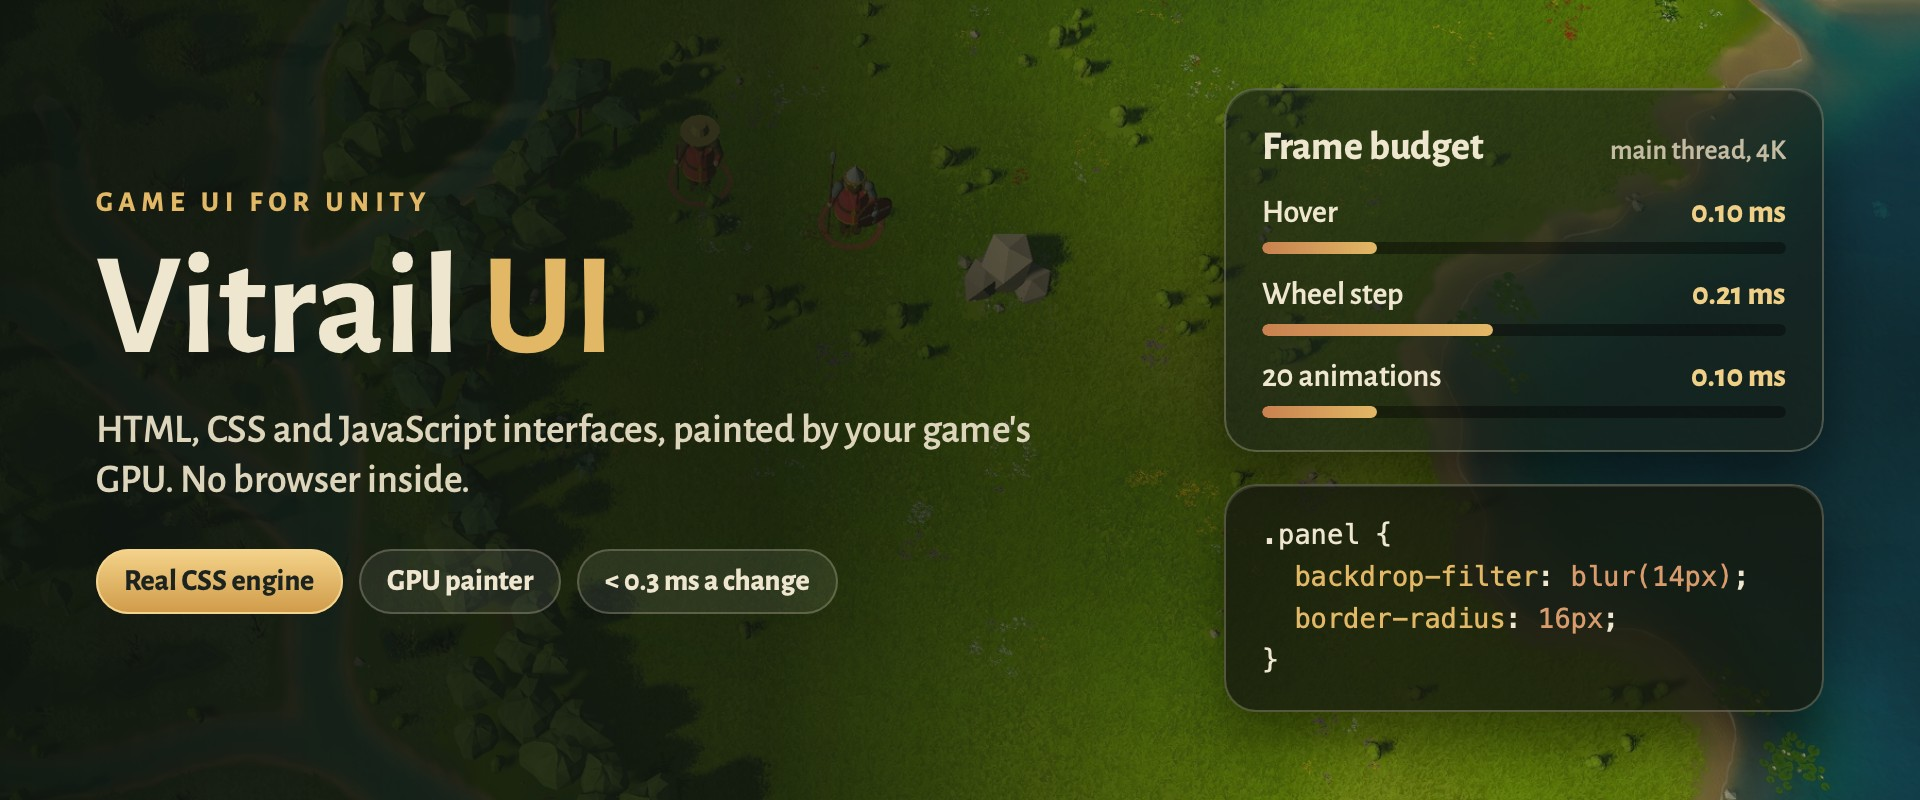
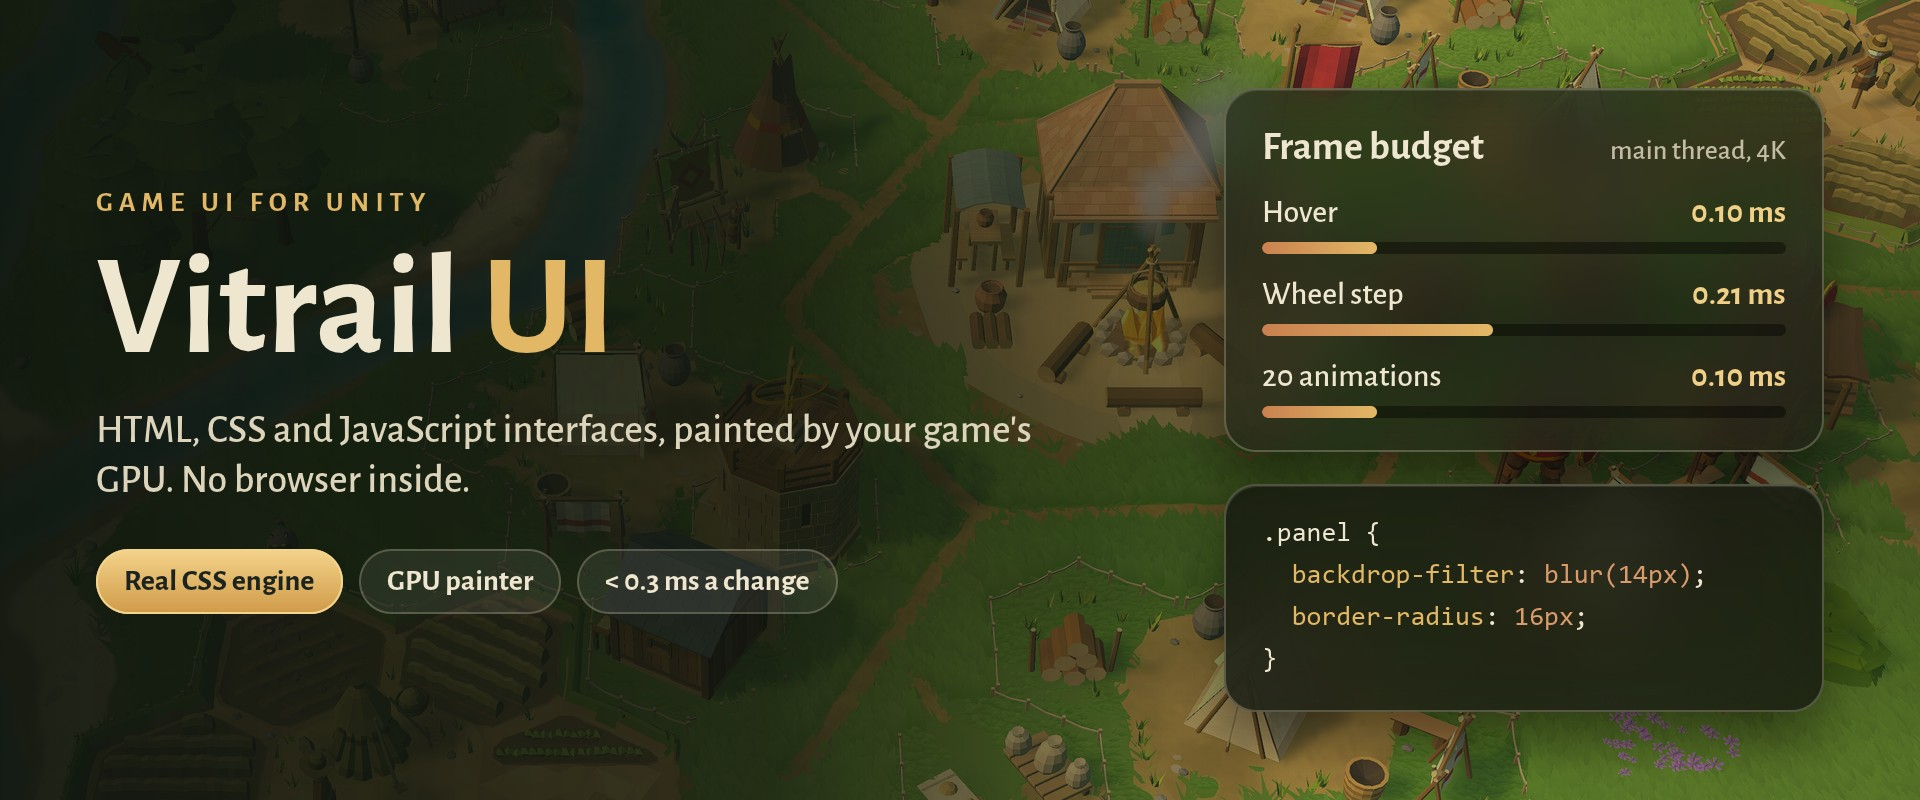
README pictures painted over a real Unity scene, so glass blurs it as in Chrome; a fresh game scene; the shot tool

diff --git a/media/src/showcase.html b/media/src/showcase.html
@@ -2,119 +2,119 @@
 <html>
 <head>
 <meta charset="utf-8">
+<!-- The README's showcase. The game scene is drawn under the page (the page itself is transparent), so the glass
+     blurs the real scene, as it does in a game. -->
 <style>
 @font-face { font-family: "Alegreya Sans"; src: url(AlegreyaSans-Medium.ttf); font-weight: 500; }
 @font-face { font-family: "Alegreya Sans"; src: url(AlegreyaSans-Bold.ttf); font-weight: 700; }
 :root {
-  --glass: rgba(24, 34, 28, .62);
-  --glass-strong: rgba(20, 28, 23, .78);
-  --edge: rgba(236, 226, 196, .22);
-  --text: #efe8d4;
-  --muted: #b8b19a;
-  --gold: #e2b866;
+  --glass: rgba(22, 30, 25, .62);
+  --edge: rgba(236, 226, 196, .2);
+  --text: #f1ead6;
+  --muted: #bdb6a0;
+  --gold: #e8c06e;
   --copper: #c9814f;
-  --good: #9fd27a;
+  --good: #a6d98a;
+  --bad: #ec9070;
 }
 * { box-sizing: border-box; margin: 0; }
-html, body { width: 1280px; height: 720px; overflow: hidden; }
+html, body { width: 1280px; height: 720px; overflow: hidden; background: transparent; }
 body { font: 500 15px/1.25 "Alegreya Sans", sans-serif; color: var(--text); position: relative; }
-.world { position: absolute; left: -190px; top: -50px; width: 1480px; height: 833px; }
 
 .glass {
   background: var(--glass);
-  backdrop-filter: blur(14px) saturate(1.2);
+  backdrop-filter: blur(14px) saturate(1.25);
   border: 1px solid var(--edge);
-  box-shadow: 0 10px 30px rgba(0, 0, 0, .35), inset 0 1px 0 rgba(255, 255, 255, .08);
+  box-shadow: 0 12px 32px rgba(0, 0, 0, .32), inset 0 1px 0 rgba(255, 255, 255, .09);
 }
 
 /* Top bar */
-.bar { position: absolute; left: 16px; right: 16px; top: 14px; height: 48px; border-radius: 14px; background: rgba(18,24,16,.74);
-  display: flex; align-items: center; padding: 0 10px 0 16px; gap: 20px; }
-.res { display: flex; align-items: center; gap: 7px; font-weight: 700; font-size: 17px; }
+.bar { position: absolute; left: 16px; right: 16px; top: 14px; height: 50px; border-radius: 16px;
+  display: flex; align-items: center; padding: 0 10px 0 18px; gap: 22px; }
+.res { display: flex; align-items: center; gap: 7px; font-weight: 700; font-size: 17px; text-shadow: 0 1px 2px rgba(0, 0, 0, .5); }
 .res img { width: 26px; height: 26px; }
-.res small { font-weight: 700; font-size: 15px; color: var(--good); text-shadow: 0 1px 2px rgba(0,0,0,.65); }
-.res small.bad { color: #e48a6c; }
+.res small { font-weight: 700; font-size: 14px; color: var(--good); }
+.res small.bad { color: var(--bad); }
 .sep { width: 1px; height: 24px; background: var(--edge); }
 .spacer { flex: 1; }
-.turn { font-weight: 700; color: var(--gold); letter-spacing: .04em; font-size: 16px; }
 .round { width: 34px; height: 34px; border-radius: 50%; display: flex; align-items: center; justify-content: center;
-  background: linear-gradient(180deg, rgba(255,255,255,.12), rgba(255,255,255,.02)); border: 1px solid var(--edge); }
+  background: linear-gradient(180deg, rgba(255, 255, 255, .14), rgba(255, 255, 255, .03)); border: 1px solid var(--edge); }
 .round img { width: 18px; height: 18px; }
 
+/* Toast */
+.toast { position: absolute; left: 50%; top: 80px; transform: translateX(-50%); padding: 8px 18px 8px 9px;
+  border-radius: 999px; display: flex; align-items: center; gap: 10px; font-size: 15px; white-space: nowrap; }
+.toast .dot { width: 28px; height: 28px; border-radius: 50%; display: flex; align-items: center; justify-content: center;
+  background: linear-gradient(180deg, #b4e297, #5d9a4a); box-shadow: inset 0 1px 0 rgba(255, 255, 255, .4); }
+.toast .dot img { width: 18px; height: 18px; }
+.toast b { color: var(--gold); }
+
 /* Build card */
-.card { position: absolute; right: 16px; top: 78px; width: 330px; border-radius: 16px; padding: 16px; }
+.card { position: absolute; left: 16px; top: 78px; width: 320px; border-radius: 18px; padding: 16px; }
 .card h2 { font-size: 22px; font-weight: 700; display: flex; justify-content: space-between; align-items: baseline; }
-.card h2 span { font-size: 14px; color: #d6cdb3; font-weight: 500; }
-.tabs { display: flex; gap: 6px; margin: 12px 0 12px; }
-.tab { padding: 5px 12px; border-radius: 999px; font-size: 13px; color: var(--muted); border: 1px solid transparent; }
-.tab.on { color: #1d241f; background: linear-gradient(180deg, #f0cf86, #d6a24f); font-weight: 700; }
-.item { display: grid; grid-template-columns: 48px 1fr auto; gap: 12px; align-items: center; padding: 10px;
-  border-radius: 12px; margin-bottom: 8px; background: rgba(255,255,255,.04); border: 1px solid rgba(255,255,255,.05); }
-.item.hover { background: linear-gradient(90deg, rgba(226,184,102,.20), rgba(226,184,102,.05));
-  border-color: rgba(226,184,102,.75); box-shadow: 0 0 0 3px rgba(226,184,102,.15); }
-.thumb { width: 48px; height: 48px; border-radius: 10px; display: flex; align-items: center; justify-content: center;
-  background: radial-gradient(circle at 30% 25%, #4f6b52, #233226); border: 1px solid var(--edge); }
-.thumb img { width: 28px; height: 28px; }
+.card h2 span { font-size: 14px; color: var(--muted); font-weight: 500; }
+.tabs { display: flex; gap: 4px; margin: 12px 0; padding: 3px; border-radius: 999px; background: rgba(0, 0, 0, .22); }
+.tab { flex: 1; text-align: center; padding: 5px 0; border-radius: 999px; font-size: 13px; color: var(--muted); }
+.tab.on { color: #1f2620; background: linear-gradient(180deg, #f3d48e, #d6a24f); font-weight: 700; box-shadow: 0 2px 8px rgba(214, 162, 79, .35); }
+.item { display: grid; grid-template-columns: 48px 1fr auto; gap: 12px; align-items: center; padding: 8px 10px 8px 8px;
+  border-radius: 13px; margin-bottom: 8px; background: rgba(255, 255, 255, .045); border: 1px solid rgba(255, 255, 255, .06); }
+.item.hover { background: linear-gradient(90deg, rgba(232, 192, 110, .22), rgba(232, 192, 110, .05));
+  border-color: rgba(232, 192, 110, .8); box-shadow: 0 0 0 3px rgba(232, 192, 110, .14); }
+.thumb { width: 48px; height: 48px; border-radius: 11px; display: flex; align-items: center; justify-content: center;
+  background: radial-gradient(circle at 30% 25%, #5a7a5c, #233226); border: 1px solid var(--edge); }
+.thumb img { width: 40px; height: 40px; }
 .item b { display: block; font-size: 16px; }
 .item i { font-style: normal; font-size: 13px; color: var(--muted); }
 .cost { display: flex; gap: 8px; font-weight: 700; font-size: 14px; }
 .cost span { display: flex; align-items: center; gap: 3px; }
 .cost img { width: 18px; height: 18px; }
-.progress { margin-top: 6px; height: 8px; border-radius: 4px; background: rgba(0,0,0,.35); overflow: hidden; }
+.foot { display: flex; justify-content: space-between; margin-top: 6px; font-size: 13px; color: var(--muted); }
+.progress { margin-top: 6px; height: 8px; border-radius: 4px; background: rgba(0, 0, 0, .35); overflow: hidden; }
 .progress div { width: 64%; height: 100%; border-radius: 4px; background: linear-gradient(90deg, var(--copper), var(--gold)); }
-.foot { display: flex; justify-content: space-between; margin-top: 4px; font-size: 13px; color: var(--muted); }
 
 /* Tooltip */
-.tip { position: absolute; right: 362px; top: 252px; width: 250px; border-radius: 12px; padding: 12px 14px; }
-.tip::after { content: ""; position: absolute; right: -7px; top: 26px; width: 12px; height: 12px; transform: rotate(45deg);
-  background: rgba(30,40,32,.9); border-top: 1px solid var(--edge); border-right: 1px solid var(--edge); }
+.tip { position: absolute; left: 352px; top: 222px; width: 250px; border-radius: 13px; padding: 12px 14px; }
+.tip::before { content: ""; position: absolute; left: -7px; top: 26px; width: 12px; height: 12px; transform: rotate(45deg);
+  background: rgba(40, 50, 42, .95); border-bottom: 1px solid var(--edge); border-left: 1px solid var(--edge); }
 .tip b { color: var(--gold); font-size: 17px; }
 .tip p { font-size: 14px; color: var(--muted); margin-top: 4px; }
-.tip .row { display: flex; justify-content: space-between; margin-top: 8px; font-size: 14px; }
-.tip .row em { font-style: normal; color: var(--good); font-weight: 700; }
+.tip .row { display: flex; justify-content: space-between; align-items: center; margin-top: 8px; font-size: 14px; }
+.tip .row em { font-style: normal; color: var(--good); font-weight: 700; display: flex; align-items: center; gap: 4px; }
+.tip .row em img { width: 17px; height: 17px; }
 
 /* Unit panel */
-.unit { position: absolute; left: 16px; bottom: 16px; width: 380px; border-radius: 16px; padding: 14px 16px;
+.unit { position: absolute; left: 16px; bottom: 16px; width: 360px; border-radius: 18px; padding: 14px 16px;
   display: grid; grid-template-columns: 64px 1fr; gap: 14px; }
 .portrait { width: 64px; height: 64px; border-radius: 50%; display: flex; align-items: center; justify-content: center;
-  background: radial-gradient(circle at 35% 30%, #8a4b34, #3a1f17); border: 2px solid var(--gold);
-  box-shadow: 0 0 18px rgba(226,184,102,.35); }
-.portrait img { width: 36px; height: 36px; }
+  background: radial-gradient(circle at 35% 30%, #9a5139, #3a1f17); border: 2px solid var(--gold);
+  box-shadow: 0 0 18px rgba(232, 192, 110, .35); }
+.portrait img { width: 48px; height: 48px; }
 .unit h3 { font-size: 20px; font-weight: 700; }
 .unit .sub { font-size: 13px; color: var(--muted); }
 .hp { display: grid; grid-template-columns: repeat(10, 1fr); gap: 3px; margin-top: 8px; }
 .hp div { height: 7px; border-radius: 2px; background: var(--good); }
-.hp div.off { background: rgba(255,255,255,.15); }
+.hp div.off { background: rgba(255, 255, 255, .15); }
 .actions { grid-column: 1 / 3; display: flex; gap: 8px; }
-.btn { flex: 1; text-align: center; padding: 8px 0; border-radius: 10px; font-weight: 700; font-size: 14px;
-  border: 1px solid var(--edge); background: linear-gradient(180deg, rgba(255,255,255,.10), rgba(255,255,255,.02)); }
-.btn.main { color: #1d241f; border-color: #f3d48e; background: linear-gradient(180deg, #f2d087, #cf9a48);
-  box-shadow: 0 4px 14px rgba(207,154,72,.35); }
-
-/* Toast */
-.toast { position: absolute; left: 50%; top: 80px; transform: translateX(-50%); padding: 9px 18px 9px 12px;
-  border-radius: 999px; display: flex; align-items: center; gap: 10px; font-size: 15px; }
-.toast .dot { width: 26px; height: 26px; border-radius: 50%; display: flex; align-items: center; justify-content: center;
-  background: linear-gradient(180deg, #a6d98a, #5d9a4a); }
-.toast .dot img { width: 16px; height: 16px; }
-.toast b { color: var(--gold); }
+.btn { flex: 1; display: flex; align-items: center; justify-content: center; gap: 6px; padding: 7px 0; border-radius: 11px; font-weight: 700; font-size: 14px;
+  border: 1px solid var(--edge); background: linear-gradient(180deg, rgba(255, 255, 255, .11), rgba(255, 255, 255, .02)); }
+.btn img { width: 20px; height: 20px; }
+.btn.main { color: #1f2620; border-color: #f3d48e; background: linear-gradient(180deg, #f3d48e, #cf9a48);
+  box-shadow: 0 4px 14px rgba(207, 154, 72, .35); }
 
 /* Turn dial */
-.dial { position: absolute; right: 16px; bottom: 16px; width: 200px; border-radius: 16px; padding: 12px 14px 14px; text-align: center; }
+.dial { position: absolute; right: 16px; bottom: 16px; width: 200px; border-radius: 18px; padding: 12px 14px 14px; text-align: center; }
 .dial h3 { font-size: 24px; font-weight: 700; }
 .dial .sub { font-size: 13px; color: var(--muted); }
 .ring { width: 92px; height: 92px; margin: 8px auto 10px; border-radius: 50%; display: flex; align-items: center;
-  justify-content: center; background: conic-gradient(var(--copper) 0%, var(--gold) 72%, rgba(255,255,255,.12) 72% 100%); }
+  justify-content: center; background: conic-gradient(var(--copper) 0%, var(--gold) 72%, rgba(255, 255, 255, .12) 72% 100%); }
 .ring div { width: 76px; height: 76px; border-radius: 50%; background: #1c2720; display: flex; align-items: center;
   justify-content: center; border: 1px solid var(--edge); }
 .ring img { width: 34px; height: 34px; }
-.end { margin-top: 4px; padding: 8px 0; border-radius: 10px; font-weight: 700; color: #1d241f;
-  background: linear-gradient(180deg, #f2d087, #cf9a48); }
+.end { margin-top: 4px; padding: 8px 0; border-radius: 11px; font-weight: 700; color: #1f2620;
+  background: linear-gradient(180deg, #f3d48e, #cf9a48); box-shadow: 0 4px 14px rgba(207, 154, 72, .3); }
 </style>
 </head>
 <body>
-<img class="world" src="world.jpg">
-
 <div class="bar glass">
   <div class="res"><img src="icons/water.png">30 <small>+4</small></div>
   <div class="res"><img src="icons/food.png">42 <small>+3</small></div>
@@ -136,17 +136,17 @@ body { font: 500 15px/1.25 "Alegreya Sans", sans-serif; color: var(--text); posi
   <h2>Build <span>Riverside</span></h2>
   <div class="tabs"><div class="tab on">Housing</div><div class="tab">Food</div><div class="tab">Crafts</div><div class="tab">Defence</div></div>
   <div class="item">
-    <div class="thumb"><img src="icons/home.svg"></div>
+    <div class="thumb"><img src="icons/tent.png"></div>
     <div><b>Cottage</b><i>+2 people, needs a road</i></div>
     <div class="cost"><span><img src="icons/wood.png">6</span></div>
   </div>
   <div class="item hover">
-    <div class="thumb"><img src="icons/planks.png"></div>
+    <div class="thumb"><img src="icons/sawmill.png"></div>
     <div><b>Sawmill</b><i>Wood into planks</i></div>
     <div class="cost"><span><img src="icons/wood.png">8</span><span><img src="icons/stone.png">4</span></div>
   </div>
   <div class="item">
-    <div class="thumb"><img src="icons/food.png"></div>
+    <div class="thumb"><img src="icons/storehouse.png"></div>
     <div><b>Granary</b><i>Keeps food through winter</i></div>
     <div class="cost"><span><img src="icons/wood.png">10</span></div>
   </div>
@@ -157,18 +157,18 @@ body { font: 500 15px/1.25 "Alegreya Sans", sans-serif; color: var(--text); posi
 <div class="tip glass">
   <b>Sawmill</b>
   <p>Turns 2 wood into 1 plank each turn. Plank buildings last longer.</p>
-  <div class="row"><span>Planks per turn</span><em>+1</em></div>
+  <div class="row"><span>Planks per turn</span><em><img src="icons/planks.png">+1</em></div>
   <div class="row"><span>Upkeep</span><span>1 food</span></div>
 </div>
 
 <div class="unit glass">
-  <div class="portrait"><img src="icons/warrior.svg"></div>
+  <div class="portrait"><img src="icons/warrior.png"></div>
   <div>
-    <h3>Spearmen</h3>
+    <h3>Warriors</h3>
     <div class="sub">Level 2 · 3 of 3 moves</div>
     <div class="hp"><div></div><div></div><div></div><div></div><div></div><div></div><div></div><div></div><div class="off"></div><div class="off"></div></div>
   </div>
-  <div class="actions"><div class="btn main">Fortify</div><div class="btn">Move</div><div class="btn">Disband</div></div>
+  <div class="actions"><div class="btn main"><img src="icons/fortify.png">Fortify</div><div class="btn"><img src="icons/march.png">Move</div><div class="btn"><img src="icons/disband.png">Disband</div></div>
 </div>
 
 <div class="dial glass">

diff --git a/media/src/hero.html b/media/src/hero.html
@@ -2,14 +2,14 @@
 <html>
 <head>
 <meta charset="utf-8">
-<!-- Laid out at 960 css px and painted at scale 2, so GitHub (about 880 px wide) shows it near 1:1. -->
+<!-- Laid out at 960 css px and painted at scale 2, so GitHub (about 880 px wide) shows it near 1:1. The game scene
+     (scene-hero.jpg) is drawn under the page, which is transparent, so the glass blurs the real scene. -->
 <style>
 @font-face { font-family: "Alegreya Sans"; src: url(AlegreyaSans-Medium.ttf); font-weight: 500; }
 @font-face { font-family: "Alegreya Sans"; src: url(AlegreyaSans-Bold.ttf); font-weight: 700; }
 * { box-sizing: border-box; margin: 0; }
 html, body { width: 960px; height: 400px; overflow: hidden; }
-body { font: 500 15px/1.25 "Alegreya Sans", sans-serif; color: #efe6d0; position: relative; background: #141b16; }
-.world { position: absolute; left: -330px; top: -290px; width: 1360px; height: 765px; }
+body { font: 500 15px/1.25 "Alegreya Sans", sans-serif; color: #efe6d0; position: relative; background: transparent; }
 .shade { position: absolute; inset: 0;
   background: linear-gradient(90deg, rgba(14,20,14,.94) 0%, rgba(14,20,14,.82) 40%, rgba(14,20,14,.25) 70%, rgba(14,20,14,.35) 100%); }
 .vignette { position: absolute; inset: 0; background: radial-gradient(ellipse at 82% 50%, rgba(10,14,8,.45), rgba(10,14,8,0) 65%); }
@@ -41,7 +41,6 @@ h1 span { color: #e2b866; }
 </style>
 </head>
 <body>
-<img class="world" src="world.jpg">
 <div class="shade"></div>
 <div class="vignette"></div>
 <div class="left">

diff --git a/media/src/shot/BuildShot.cs b/media/src/shot/BuildShot.cs
@@ -1,0 +1,59 @@
+using UnityEditor;
+using UnityEditor.SceneManagement;
+using UnityEngine;
+using UnityEngine.Rendering;
+using UnityEngine.Rendering.Universal;
+
+public static class BuildShot
+{
+    public static void Build()
+    {
+        PlayerSettings.colorSpace = ColorSpace.Linear;
+        var ps = AssetDatabase.LoadAllAssetsAtPath("ProjectSettings/ProjectSettings.asset")[0];
+        var so = new SerializedObject(ps);
+        so.FindProperty("activeInputHandler").intValue = 2;
+        so.ApplyModifiedProperties();
+        PlayerSettings.fullScreenMode = FullScreenMode.Windowed;
+        PlayerSettings.defaultScreenWidth = 640;
+        PlayerSettings.defaultScreenHeight = 360;
+        PlayerSettings.resizableWindow = true;
+        PlayerSettings.runInBackground = true;
+
+        System.IO.Directory.CreateDirectory("Assets/Settings");
+        var rd = ScriptableObject.CreateInstance<UniversalRendererData>();
+        rd.intermediateTextureMode = IntermediateTextureMode.Always;
+        AssetDatabase.CreateAsset(rd, "Assets/Settings/Renderer.asset");
+        var urp = UniversalRenderPipelineAsset.Create(rd);
+        urp.renderScale = 1f;
+        urp.msaaSampleCount = 1;
+        AssetDatabase.CreateAsset(urp, "Assets/Settings/URP.asset");
+        GraphicsSettings.defaultRenderPipeline = urp;
+        for (var i = 0; i < QualitySettings.names.Length; i++) { QualitySettings.SetQualityLevel(i, false); QualitySettings.renderPipeline = urp; }
+
+        var scene = EditorSceneManager.NewScene(NewSceneSetup.EmptyScene, NewSceneMode.Single);
+        var cam = new GameObject("Camera").AddComponent<Camera>();
+        cam.orthographic = true;
+        cam.orthographicSize = 5;
+        cam.transform.position = new Vector3(0, 0, -10);
+        cam.clearFlags = CameraClearFlags.SolidColor;
+        cam.backgroundColor = Color.black;
+        cam.tag = "MainCamera";
+        var data = cam.GetUniversalAdditionalCameraData();
+        data.renderPostProcessing = false;
+        data.antialiasing = AntialiasingMode.None;
+        var quad = GameObject.CreatePrimitive(PrimitiveType.Quad);
+        quad.name = "Background";
+        var mat = new Material(Shader.Find("Universal Render Pipeline/Unlit"));
+        AssetDatabase.CreateAsset(mat, "Assets/Settings/Background.mat");
+        quad.GetComponent<MeshRenderer>().sharedMaterial = mat;
+        var shot = new GameObject("Shot").AddComponent<Shot>();
+        shot.cam = cam;
+        shot.quad = quad.GetComponent<MeshRenderer>();
+        EditorSceneManager.SaveScene(scene, "Assets/Shot/Shot.unity");
+        AssetDatabase.SaveAssets();
+
+        var r = BuildPipeline.BuildPlayer(new[] { "Assets/Shot/Shot.unity" }, "Build/shot.exe", BuildTarget.StandaloneWindows64, BuildOptions.None);
+        Debug.Log("BuildShot: " + r.summary.result + " " + r.summary.totalErrors + " errors");
+        if (r.summary.result != UnityEditor.Build.Reporting.BuildResult.Succeeded) EditorApplication.Exit(1);
+    }
+}

diff --git a/media/src/shot/Shot.cs b/media/src/shot/Shot.cs
@@ -1,0 +1,64 @@
+using System.Collections;
+using System.IO;
+using UnityEngine;
+using Vitrail;
+
+// Paints README pictures with Vitrail UI over a real scene: a background picture on a quad fills an orthographic
+// camera that renders into a texture of the picture's size; the page is drawn over that camera, so its glass blurs
+// the scene as in a game. Jobs come from show/jobs.txt: "page background scale out" per line.
+public sealed class Shot : MonoBehaviour
+{
+    public Camera cam;
+    public MeshRenderer quad;
+
+    private IEnumerator Start()
+    {
+        var outDir = Arg("-out", Path.Combine(Application.dataPath, "..", "out"));
+        Directory.CreateDirectory(outDir);
+        var log = new System.Text.StringBuilder();
+        foreach (var line in File.ReadAllLines(Path.Combine(Application.streamingAssetsPath, "show", "jobs.txt")))
+        {
+            var p = line.Split(' ');
+            if (p.Length < 4) continue;
+            yield return Job(p[0], p[1], float.Parse(p[2], System.Globalization.CultureInfo.InvariantCulture), Path.Combine(outDir, p[3]), log);
+        }
+        File.WriteAllText(Path.Combine(outDir, "log.txt"), log.ToString());
+        Application.Quit();
+    }
+
+    private IEnumerator Job(string page, string bg, float scale, string outPath, System.Text.StringBuilder log)
+    {
+        var tex = new Texture2D(2, 2, TextureFormat.RGBA32, false, false);
+        tex.LoadImage(File.ReadAllBytes(Path.Combine(Application.streamingAssetsPath, bg)));
+        tex.filterMode = FilterMode.Point;
+        tex.wrapMode = TextureWrapMode.Clamp;
+        int w = tex.width, h = tex.height;
+        quad.material.SetTexture("_BaseMap", tex);
+        var rt = new RenderTexture(w, h, 24, RenderTextureFormat.ARGB32, RenderTextureReadWrite.sRGB);
+        cam.targetTexture = rt;
+        cam.aspect = w / (float)h;
+        cam.orthographicSize = 5;
+        quad.transform.localScale = new Vector3(10f * w / h, 10f, 1f);
+        var panel = new WebPanel(page, 0) { TargetCamera = cam };
+        for (var i = 0; i < 300; i++) { panel.Update(scale); yield return null; }
+        yield return new WaitForEndOfFrame();
+        var prev = RenderTexture.active;
+        RenderTexture.active = rt;
+        var shot = new Texture2D(w, h, TextureFormat.RGB24, false, false);
+        shot.ReadPixels(new Rect(0, 0, w, h), 0, 0);
+        shot.Apply();
+        RenderTexture.active = prev;
+        File.WriteAllBytes(outPath, shot.EncodeToPNG());
+        log.AppendLine($"{page} {w}x{h} scale {scale} paints {panel.PaintsStarted}");
+        panel.Dispose();
+        cam.targetTexture = null;
+        rt.Release();
+    }
+
+    private static string Arg(string name, string fallback)
+    {
+        var a = System.Environment.GetCommandLineArgs();
+        for (var i = 0; i < a.Length - 1; i++) if (a[i] == name) return a[i + 1];
+        return fallback;
+    }
+}

diff --git a/media/src/README.md b/media/src/README.md
@@ -1,7 +1,17 @@
 # Sources of the README pictures
 
-`showcase.html` and `hero.html` are painted by Vitrail UI itself:
-`cargo run --release --example shot -- ../../media/src/showcase.html out.png 1280 720 1.5` in `native/vitrail-ffi`.
+`showcase.html` and `hero.html` are painted by Vitrail UI itself, over a real Unity scene: the pages are transparent
+and the game picture (`scene-showcase.jpg`, `scene-hero.jpg`) is drawn under them by the camera, so `backdrop-filter`
+blurs the scene the way it does in a game.
 
-- `world.jpg`: a game scene behind the panels.
+`shot/` holds the tool: put `Shot.cs` and `Editor/BuildShot.cs` in an empty Unity 6 project with URP, the Input
+System and this package, put this folder under `Assets/StreamingAssets/show/` with a `jobs.txt`
+(`page background scale out.png` per line, e.g. `show/showcase.html show/scene-showcase.jpg 1.5 showcase.png`), run
+`BuildShot.Build` and start the built player with `-out <folder>`.
+
+`chrome-vs-vitrail.jpg`: the same page in headless Chrome at device scale 1.5 over the same picture (as the body's
+background), its left half joined to Vitrail UI's right half. They differ by about 1/255 on average.
+
+- `scene-*.jpg`: a game scene behind the panels.
+- `icons/`: painted game icons.
 - `AlegreyaSans-*.ttf`: Alegreya Sans by Huerta Tipográfica, SIL Open Font License 1.1.
